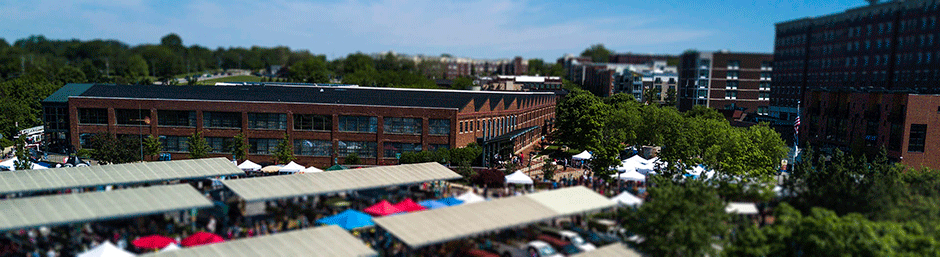
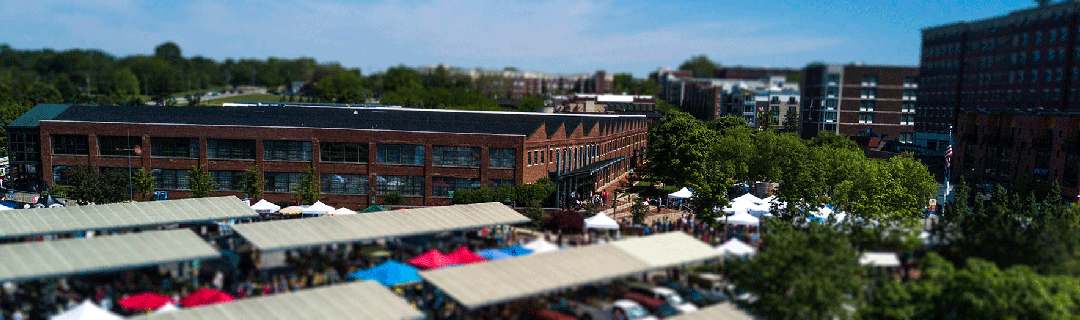
Added media queries for front page cover image
Also created correctly sized image files.

Updates #117

diff --git a/css/screen.css b/css/screen.css
@@ -416,7 +416,11 @@ dl { border: none; }
 
 #alerts .severe { background-color: #ed9a9c; }
 
-.front #banner { height: 320px; background: url("images/downtown-large.png") no-repeat center center; }
+.front #banner { height: 320px; background: url("images/downtown-small.png") no-repeat center center; }
+
+@media all and (min-width: 640px) { .front #banner { background-image: url("images/downtown-medium.png"); } }
+
+@media all and (min-width: 1080px) { .front #banner { background-image: url("images/downtown-large.png"); } }
 
 #breadcrumb { display: flex; flex-direction: column; justify-content: end; background-color: #3f9dff; color: #fff; }
 

diff --git a/css/screen.scss b/css/screen.scss
@@ -30,7 +30,9 @@ dl { border:none; }
 }
 .front #banner {
     height:320px;
-    background: url('images/downtown-large.png') no-repeat center center;
+    background: url('images/downtown-small.png') no-repeat center center;
+    @media all and (min-width:$viewport-medium) { background-image: url('images/downtown-medium.png'); }
+    @media all and (min-width:$viewport-large ) { background-image: url('images/downtown-large.png' ); }
 }
 #breadcrumb {
     display:flex; flex-direction:column; justify-content:end;
